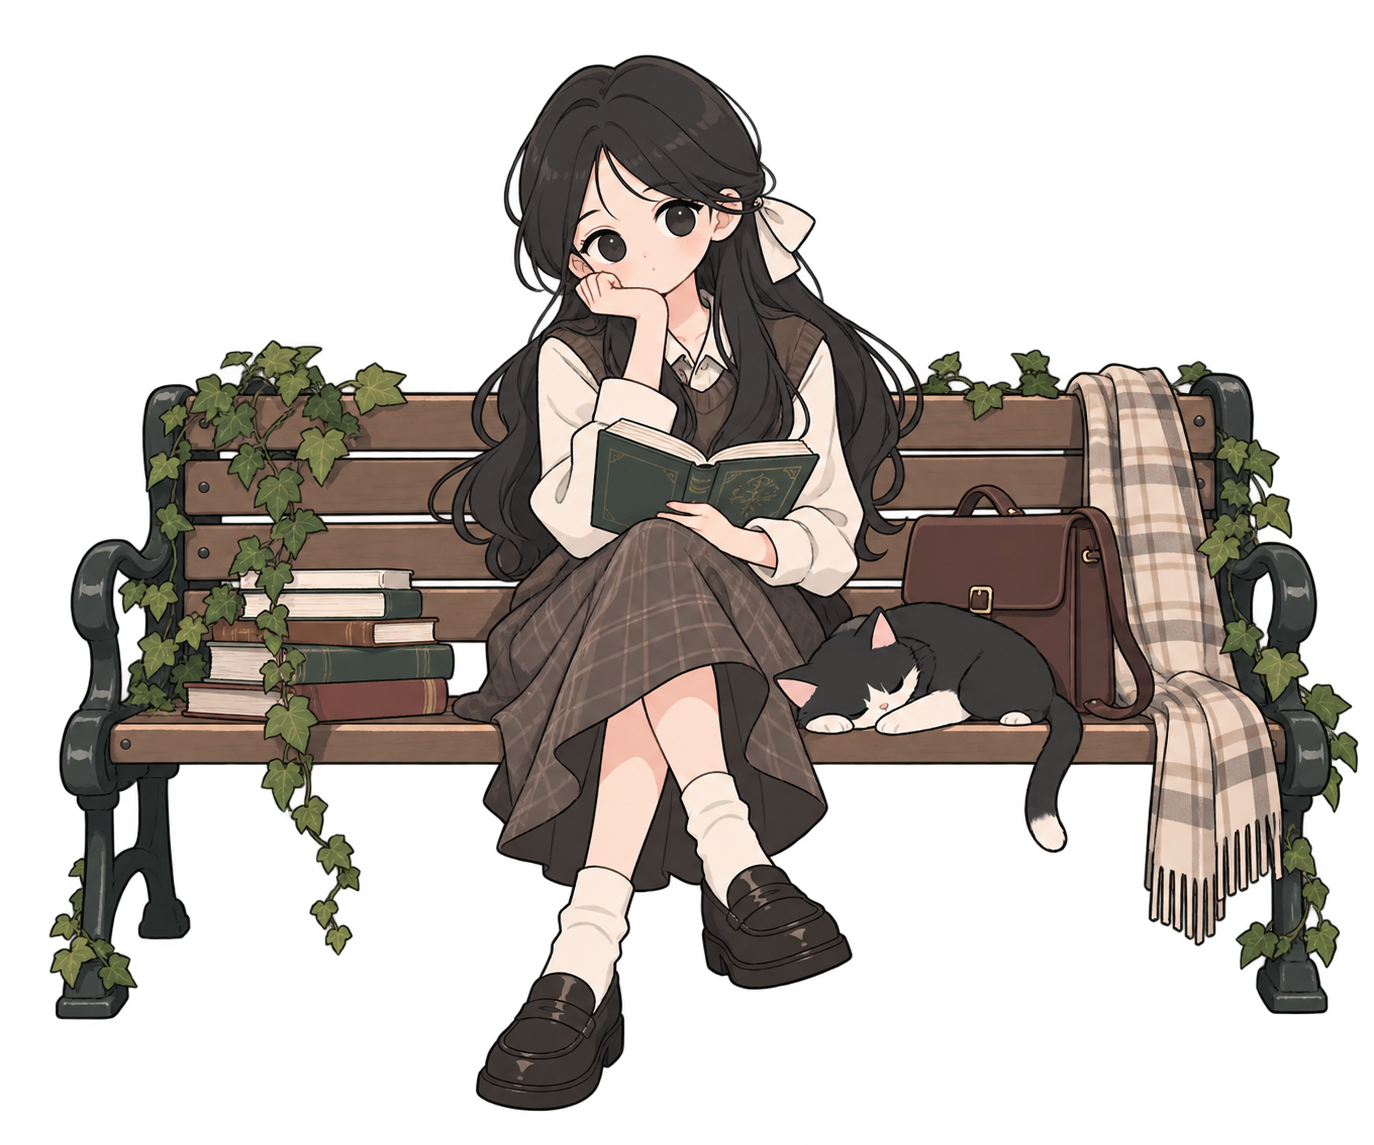
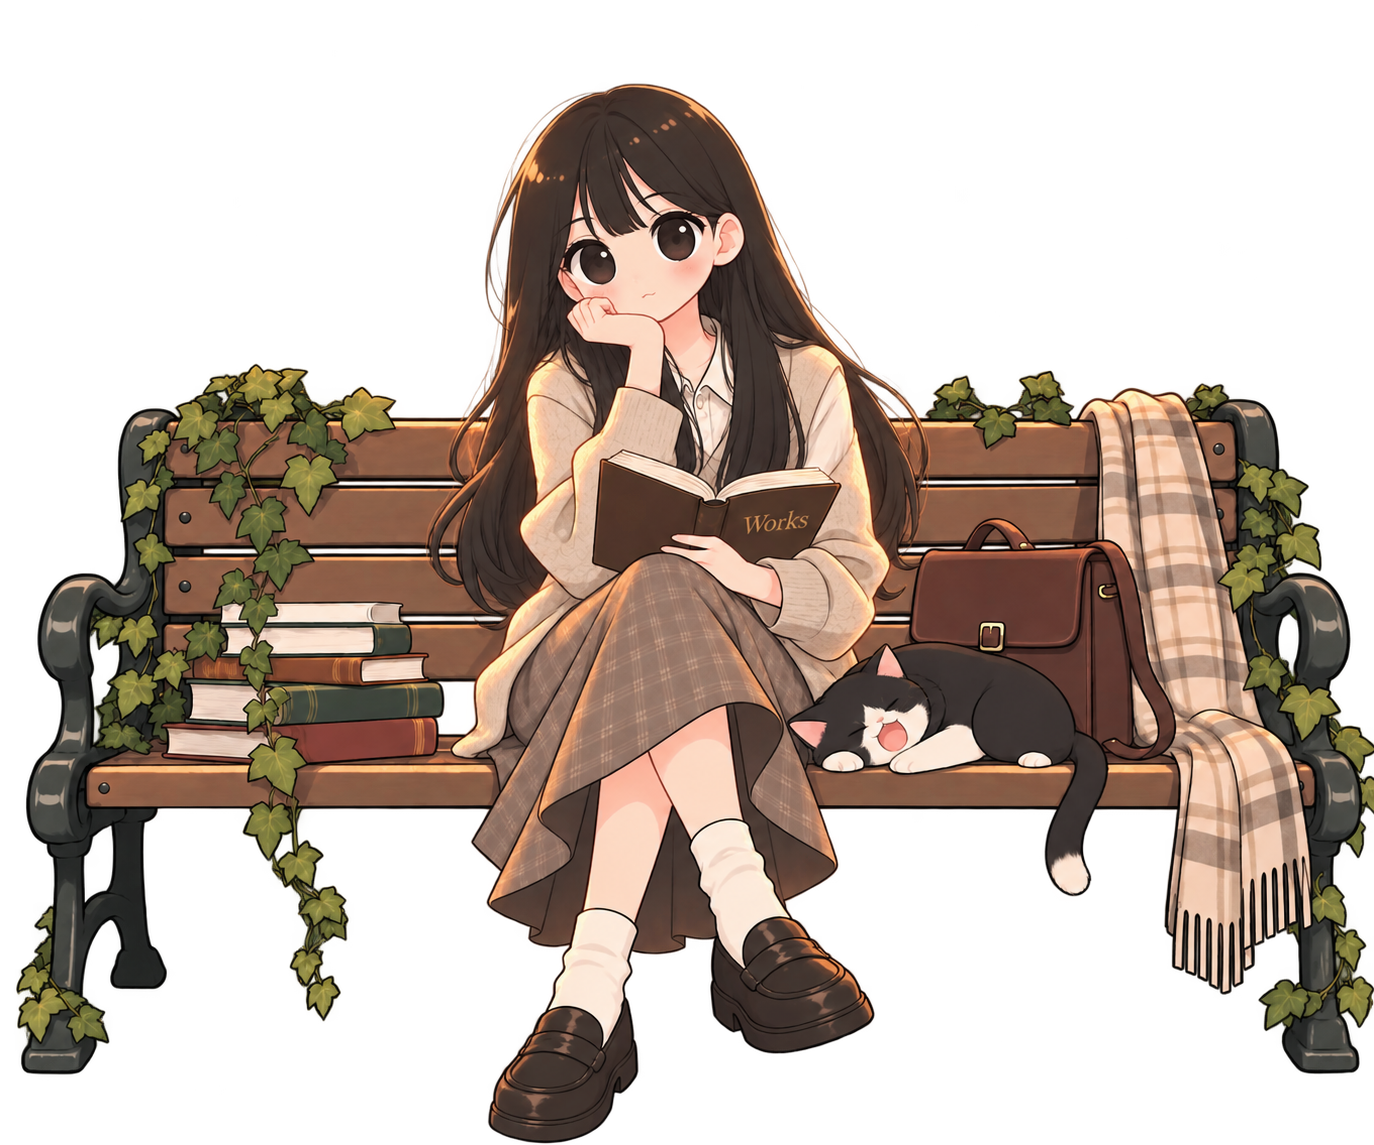
ing...

diff --git a/src/components/Book.css b/src/components/Book.css
@@ -263,7 +263,7 @@
   z-index: 150;
 }
 
-/* 표지 이미지 자리 (위치 확인용) */
+/* 표지 전체를 이미지로 채웁니다. */
 .book-cover-front {
   position: absolute;
   inset: 0;
@@ -276,14 +276,12 @@
   -webkit-backface-visibility: hidden;
 }
 
-.book-cover-image-placeholder {
+.book-cover-image {
   display: block;
-
-  width: 70%;
-  height: 60%;
-
-  border: 1px dashed rgba(240, 228, 204, 0.45);
-  border-radius: 4px;
+  width: 100%;
+  height: 100%;
+  object-fit: fill;
+  border-radius: inherit;
 }
 
 /* 중앙의 한 권에서 오른쪽으로 이동하며 기존 2페이지 위치에 펼쳐집니다. */
@@ -329,8 +327,10 @@
 }
 
 @media (max-width: 767px) {
+  /* 화면 밖으로 펼쳐진 왼쪽 종이 뒤에도 표지를 이어 줍니다. */
   .book-hardcover-left {
-    display: none;
+    left: -102%;
+    width: 104%;
   }
 
   .book-hardcover-right {
@@ -353,7 +353,8 @@
   }
 
   /* PC처럼 표지가 절반(90°)을 넘어가는 순간 왼쪽 페이지가 나타납니다. */
-  .book.is-cover-opening > .mobile-left-page {
+  .book.is-cover-opening > .mobile-left-page,
+  .book.is-cover-opening .book-hardcover-left {
     animation: mobileLeftReveal 2s linear both;
   }
 

diff --git a/src/components/Book.jsx b/src/components/Book.jsx
@@ -229,9 +229,13 @@ const Book = ({ currentPage, setCurrentPage, isCoverClosed, setIsCoverClosed }) 
               }
             }}
           >
-            {/* 표지 이미지는 이 자리에 넣을 예정 */}
             <span className="book-cover-front">
-              <span className="book-cover-image-placeholder"></span>
+              <img
+                className="book-cover-image"
+                src={`${import.meta.env.BASE_URL}book-cover.jpg`}
+                alt=""
+                draggable={false}
+              />
             </span>
           </button>
         )}

diff --git a/src/components/IntroMenu.css b/src/components/IntroMenu.css
@@ -2,9 +2,9 @@
 .intro-menu-board {
   position: absolute;
   left: 50%;
-  bottom: 2%;
+  bottom: 4%;
   /* 1320px에서 약 422px, 768px에서도 약 381px을 유지 */
-  width: clamp(360px, calc(324px + 7.45vw), 460px);
+  width: clamp(380px, calc(344px + 7.85vw), 520px);
   transform: translateX(-50%);
   z-index: 6;
 }
